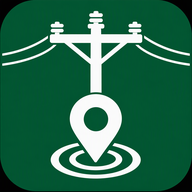
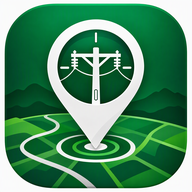
Add files via upload

diff --git a/index.html b/index.html
@@ -7,7 +7,7 @@
     <meta name="theme-color" content="#0f5132">
     <meta name="description" content="Registro offline de puntos de replanteo y coordenadas GPS">
     <link rel="manifest" href="manifest.json">
-    <link rel="apple-touch-icon" href="icon-192.png">
+    <link rel="apple-touch-icon" href="apple-touch-icon.png">
     <title>APP Replanteo</title>
     <link rel="stylesheet" href="https://unpkg.com/leaflet@1.9.4/dist/leaflet.css">
     <style>
@@ -503,7 +503,13 @@
     
         .offline-map { padding:18px; border:1px dashed #94a3b8; border-radius:9px; background:#f8fafc; color:#475569; text-align:center; font-size:13px; }
         .connection-badge { position:fixed; right:10px; bottom:8px; z-index:9999; padding:4px 8px; border-radius:5px; color:#fff; font-size:12px; font-weight:700; background:#198754; }
-        .connection-badge.offline { background:#6c757d; }
+        .connection-badge.offline { background:#b45309; }
+        .gps-quality { margin-top:8px; padding:9px 10px; border-radius:8px; font-size:13px; font-weight:700; background:#e2e8f0; color:#334155; }
+        .gps-quality.searching { background:#dbeafe; color:#1d4ed8; }
+        .gps-quality.good { background:#d1e7dd; color:#0f5132; }
+        .gps-quality.acceptable { background:#fff3cd; color:#664d03; }
+        .gps-quality.low { background:#f8d7da; color:#842029; }
+        .map-mode { margin-top:8px; padding:7px 9px; border-radius:8px; font-size:12px; background:#e8f5ed; color:#0f5132; }
     </style>
 </head>
 
@@ -539,7 +545,7 @@
                         </div>
                         <div class="full gps-preview" id="gpsPreview">
                             <div id="gpsMiniMap"></div>
-                            <div id="gpsText" class="helper"></div>
+                            <div id="gpsText" class="helper"></div><div id="gpsQuality" class="gps-quality">GPS sin activar</div>
                         </div>
                         <div class="full actions"><button type="button" id="stopGps" class="secondary hidden">Detener
                                 GPS</button></div>
@@ -560,7 +566,7 @@
                 <h2>Vista previa satelital</h2>
                 <div class="toolbar"><button id="all" class="secondary">Ver todos los puntos</button><button id="loc"
                         class="primary">Centrar en mi ubicación</button></div>
-                <div id="map"></div>
+                <div id="map"></div><div id="mapMode" class="map-mode">Satélite en línea. Las zonas visualizadas se guardan progresivamente para uso sin conexión.</div>
                 <div class="tramos">
                     <h2>Tramos de red</h2>
                     <p class="helper">Seleccione los apoyos y marque únicamente la red o las redes que llegan al punto
@@ -600,22 +606,22 @@
     <script src="https://cdnjs.cloudflare.com/ajax/libs/proj4js/2.11.0/proj4.js"></script>
     <script>
         (() => {
-            'use strict'; const $ = x => document.getElementById(x), key = 'replanteo_v25'; let points = [], tramos = [], projectName = '', mode = 'XY', edit = -1, watch = null, mapWatch = null, map, markers, lines, mini, miniMarker, accCircle, userMarker, userCircle; const supports = ['Poste', 'Caja subterránea', 'Otro elemento de apoyo']; const options = [...supports, 'Transformador', 'DPS', 'Cortacircuito', 'Cuchilla', 'Caja de derivación', 'Luminaria', 'Red MT', 'Red BT', 'Otro']; proj4.defs('EPSG:3116', '+proj=tmerc +lat_0=4.59620041666667 +lon_0=-74.0775079166667 +k=1 +x_0=1000000 +y_0=1000000 +ellps=GRS80 +towgs84=0,0,0,0,0,0,0 +units=m +no_defs +type=crs');
+            'use strict'; const $ = x => document.getElementById(x), key = 'replanteo_v25'; let points = [], tramos = [], projectName = '', mode = 'XY', edit = -1, watch = null, mapWatch = null, map, markers, lines, mini, miniMarker, accCircle, userMarker, userCircle, lastGpsAccuracy = null, lastGpsTime = null; const supports = ['Poste', 'Caja subterránea', 'Otro elemento de apoyo']; const options = [...supports, 'Transformador', 'DPS', 'Cortacircuito', 'Cuchilla', 'Caja de derivación', 'Luminaria', 'Red MT', 'Red BT', 'Otro']; proj4.defs('EPSG:3116', '+proj=tmerc +lat_0=4.59620041666667 +lon_0=-74.0775079166667 +k=1 +x_0=1000000 +y_0=1000000 +ellps=GRS80 +towgs84=0,0,0,0,0,0,0 +units=m +no_defs +type=crs');
             const esc = v => String(v ?? '').replace(/[&<>"']/g, c => ({ '&': '&amp;', '<': '&lt;', '>': '&gt;', '"': '&quot;', "'": '&#39;' }[c])); const normalizeStatus = s => String(s || '').normalize('NFD').replace(/[\u0300-\u036f]/g, '').toLowerCase(); const color = s => normalizeStatus(s) === 'nuevo' ? '#00c853' : normalizeStatus(s) === 'reposicion' ? '#ff1744' : '#212529'; const cadColor = s => normalizeStatus(s) === 'nuevo' ? 3 : normalizeStatus(s) === 'reposicion' ? 1 : 7; const statusLayer = s => normalizeStatus(s) === 'nuevo' ? 'NUEVO' : normalizeStatus(s) === 'reposicion' ? 'REPOSICION' : 'INTERVENIDO'; function tell(t, e = false, id = 'msg') { const el = $(id); el.textContent = t; el.className = 'status ' + (e ? 'error' : 'ok'); setTimeout(() => el.className = 'status', 3000) } function load() { try { const v = JSON.parse(localStorage.getItem(key) || '{}'); points = v.points || []; tramos = v.tramos || []; projectName = String(v.projectName || '') } catch { points = []; tramos = []; projectName = '' } $('projectName').value = projectName } function persist() { projectName = $('projectName').value.trim(); localStorage.setItem(key, JSON.stringify({ projectName, points, tramos })) } function validProjectName() { const n = $('projectName').value.trim(); if (!n) { tell('Ingrese el nombre obligatorio del proyecto / archivo DXF.', true, 'ptsMsg'); return false } return true } function safeFileName(n) { return n.trim().replace(/[\/:*?"<>|]+/g, '_').replace(/\s+/g, '_').replace(/^\.+|\.+$/g, '').slice(0, 80) || 'replanteo' } function latlng(p) { let a = +p.c1, b = +p.c2; if (!Number.isFinite(a) || !Number.isFinite(b)) return null; let lon, lat; if (p.mode === 'XY') { [lon, lat] = proj4('EPSG:3116', 'EPSG:4326', [a, b]) } else { lon = a; lat = b } return lat >= -90 && lat <= 90 && lon >= -180 && lon <= 180 ? [lat, lon] : null } function xy(p) { if (p.mode === 'XY') return [+p.c1, +p.c2]; return proj4('EPSG:4326', 'EPSG:3116', [+p.c1, +p.c2]) }
             $('projectName').addEventListener('input', () => { projectName = $('projectName').value.trim(); localStorage.setItem(key, JSON.stringify({ projectName, points, tramos })) }); function openView(id) { document.querySelectorAll('.view').forEach(v => v.classList.toggle('active', v.id === id)); document.querySelectorAll('.menu button').forEach(b => b.classList.toggle('active', b.dataset.view === id)); setTimeout(() => { map?.invalidateSize(); mini?.invalidateSize() }, 100); scrollTo({ top: 0, behavior: 'smooth' }) } document.querySelectorAll('.menu button').forEach(b => b.onclick = () => openView(b.dataset.view));
             function setMode(m) { mode = m; $('coordType').value = m; $('l1').textContent = m === 'XY' ? 'X / Este *' : 'Longitud *'; $('l2').textContent = m === 'XY' ? 'Y / Norte *' : 'Latitud *'; $('c1').placeholder = m === 'XY' ? 'Ej.: 1173115.183' : 'Ej.: -72.50780000'; $('c2').placeholder = m === 'XY' ? 'Ej.: 1365010.808' : 'Ej.: 7.89390000' } $('coordType').onchange = e => { setMode(e.target.value); previewManual() };
             function row(type = '', text = '', status = 'Nuevo', first = null) { const isFirst = first ?? !$('elements').children.length, r = document.createElement('div'); r.className = 'element-row'; const list = isFirst ? supports : options, selected = list.includes(type) ? type : list[0]; r.innerHTML = `<div><label>Condición</label><select class="st"><option ${status === 'Nuevo' ? 'selected' : ''}>Nuevo</option><option value="Reposicion" ${status === 'Reposicion' ? 'selected' : ''}>Reposición</option><option ${status === 'Intervenido' ? 'selected' : ''}>Intervenido</option></select></div><div><label>${isFirst ? 'Apoyo obligatorio' : 'Elemento'}</label><select class="tp">${list.map(x => `<option ${x === selected ? 'selected' : ''}>${x}</option>`).join('')}</select></div><div><label>Dato / descripción</label><input class="tx" value="${esc(text)}"></div>${isFirst ? '<button type="button" disabled>Obligatorio</button>' : '<button type="button" class="danger rm">Eliminar</button>'}`; const paint = () => r.querySelector('.tx').style.color = color(r.querySelector('.st').value); r.querySelector('.st').onchange = paint; paint(); r.querySelector('.rm')?.addEventListener('click', () => r.remove()); $('elements').appendChild(r) } $('add').onclick = () => row();
-            function initMini() { if (mini) return; mini = L.map('gpsMiniMap', { attributionControl: false }).setView([7.89, -72.5], 18); L.tileLayer('https://server.arcgisonline.com/ArcGIS/rest/services/World_Imagery/MapServer/tile/{z}/{y}/{x}', { maxZoom: 19 }).addTo(mini) } function miniShow(lat, lon, acc = null) { if(!navigator.onLine){$('gpsPreview').classList.add('active');$('gpsText').textContent=`Longitud: ${lon.toFixed(8)} · Latitud: ${lat.toFixed(8)}${acc !== null ? ' · Precisión: ' + Math.round(acc) + ' m' : ''} · Mapa no disponible sin internet`;return} initMini(); $('gpsPreview').classList.add('active'); const ll = [lat, lon]; if (!miniMarker) miniMarker = L.circleMarker(ll, { radius: 8, color: '#fff', weight: 3, fillColor: '#0d6efd', fillOpacity: 1 }).addTo(mini); else miniMarker.setLatLng(ll); if (acc !== null) { if (!accCircle) accCircle = L.circle(ll, { radius: acc, color: '#0d6efd', fillOpacity: .1 }).addTo(mini); else accCircle.setLatLng(ll).setRadius(acc) } mini.setView(ll, 18); setTimeout(() => mini.invalidateSize(), 50); $('gpsText').textContent = `Longitud: ${lon.toFixed(8)} · Latitud: ${lat.toFixed(8)}${acc !== null ? ' · Precisión: ' + Math.round(acc) + ' m' : ''}` } function previewManual() { if (watch !== null || !$('c1').value || !$('c2').value) return; const ll = latlng({ mode, c1: $('c1').value, c2: $('c2').value }); if (ll) miniShow(ll[0], ll[1]) } [$('c1'), $('c2')].forEach(x => x.oninput = () => setTimeout(previewManual, 250));
-            function lock(v) { [$('c1'), $('c2'), $('coordType')].forEach(x => { x.disabled = v; x.classList.toggle('locked', v) }) } function stopGps() { if (watch !== null) navigator.geolocation.clearWatch(watch); watch = null; lock(false); $('stopGps').classList.add('hidden') } $('stopGps').onclick = stopGps; $('manual').onclick = () => { stopGps(); $('c1').focus() }; $('gps').onclick = () => { if (!window.isSecureContext) { $('secureNotice').classList.remove('hidden'); $('secureNotice').textContent = 'El GPS requiere abrir esta APP mediante HTTPS, por ejemplo GitHub Pages.'; return } if (!navigator.geolocation) return tell('GPS no disponible.', true); setMode('GEO'); lock(true); $('stopGps').classList.remove('hidden'); watch = navigator.geolocation.watchPosition(p => { $('c1').value = p.coords.longitude.toFixed(8); $('c2').value = p.coords.latitude.toFixed(8); miniShow(p.coords.latitude, p.coords.longitude, p.coords.accuracy) }, e => { stopGps(); const mensajes={1:'Permiso de ubicación denegado. Habilite la ubicación para esta APP.',2:'Ubicación no disponible. Active el GPS y vaya a un lugar abierto.',3:'El GPS tardó demasiado. Intente nuevamente al aire libre.'}; tell(mensajes[e.code] || 'No fue posible obtener la ubicación GPS.', true) }, { enableHighAccuracy: true, timeout: 60000, maximumAge: 0 }) };
-            function clear() { stopGps(); $('form').reset(); $('elements').innerHTML = ''; row(); setMode('XY'); edit = -1; $('gpsPreview').classList.remove('active') } $('clear').onclick = clear;
-            $('form').onsubmit = e => { e.preventDefault(); const number = $('numero').value.trim(), c1 = +$('c1').value, c2 = +$('c2').value; if (!number || !Number.isFinite(c1) || !Number.isFinite(c2)) return tell('Complete numeración y coordenadas.', true); const els = [...document.querySelectorAll('.element-row')].map(r => ({ status: r.querySelector('.st').value, type: r.querySelector('.tp').value, text: r.querySelector('.tx').value.trim() })); if (!supports.includes(els[0]?.type)) return tell('El primer elemento debe ser un apoyo.', true); const p = { number, mode, c1, c2, elements: els }; if (edit < 0) points.push(p); else points[edit] = p; persist(); render(); clear(); openView('pts') };
+            function initMini() { if (mini) return; mini = L.map('gpsMiniMap', { attributionControl: false }).setView([7.89, -72.5], 18); L.tileLayer('https://server.arcgisonline.com/ArcGIS/rest/services/World_Imagery/MapServer/tile/{z}/{y}/{x}', { maxZoom: 19 }).addTo(mini) } function miniShow(lat, lon, acc = null) { initMini(); $('gpsPreview').classList.add('active'); const ll = [lat, lon]; if (!miniMarker) miniMarker = L.circleMarker(ll, { radius: 8, color: '#fff', weight: 3, fillColor: '#0d6efd', fillOpacity: 1 }).addTo(mini); else miniMarker.setLatLng(ll); if (acc !== null) { if (!accCircle) accCircle = L.circle(ll, { radius: acc, color: '#0d6efd', fillOpacity: .1 }).addTo(mini); else accCircle.setLatLng(ll).setRadius(acc) } mini.setView(ll, 18); setTimeout(() => mini.invalidateSize(), 50); $('gpsText').textContent = `Longitud: ${lon.toFixed(8)} · Latitud: ${lat.toFixed(8)}${acc !== null ? ' · Precisión: ±' + Math.round(acc) + ' m' : ''}`; if(acc !== null) updateGpsQuality(acc) } function previewManual() { if (watch !== null || !$('c1').value || !$('c2').value) return; const ll = latlng({ mode, c1: $('c1').value, c2: $('c2').value }); if (ll) miniShow(ll[0], ll[1]) } [$('c1'), $('c2')].forEach(x => x.oninput = () => setTimeout(previewManual, 250));
+            function updateGpsQuality(acc){ const q=$('gpsQuality'), a=Math.round(acc); q.className='gps-quality '+(a<15?'good':a<=30?'acceptable':'low'); q.textContent=a<15?`GPS listo · Buena precisión: ±${a} m`:a<=30?`Precisión aceptable: ±${a} m · Puede mejorar al esperar`:`Precisión baja: ±${a} m · Espere al aire libre antes de guardar`; $('gps').textContent=a<15?'GPS listo':`GPS activo · ±${a} m`; } function setGpsSearching(){ const q=$('gpsQuality'); q.className='gps-quality searching'; q.textContent='Buscando señal GPS de alta precisión…'; $('gps').textContent='Buscando GPS…'; } function lock(v) { [$('c1'), $('c2'), $('coordType')].forEach(x => { x.disabled = v; x.classList.toggle('locked', v) }) } function stopGps() { if (watch !== null) navigator.geolocation.clearWatch(watch); watch = null; lock(false); $('stopGps').classList.add('hidden'); $('gps').textContent='Tomar coordenada con GPS' } $('stopGps').onclick = stopGps; $('manual').onclick = () => { stopGps(); $('c1').focus() }; $('gps').onclick = () => { if (!window.isSecureContext) { $('secureNotice').classList.remove('hidden'); $('secureNotice').textContent = 'El GPS requiere abrir esta APP mediante HTTPS, por ejemplo GitHub Pages.'; return } if (!navigator.geolocation) return tell('GPS no disponible.', true); setMode('GEO'); lock(true); setGpsSearching(); lastGpsAccuracy=null; lastGpsTime=null; $('stopGps').classList.remove('hidden'); watch = navigator.geolocation.watchPosition(p => { $('c1').value = p.coords.longitude.toFixed(8); $('c2').value = p.coords.latitude.toFixed(8); lastGpsAccuracy=p.coords.accuracy; lastGpsTime=new Date().toISOString(); miniShow(p.coords.latitude, p.coords.longitude, p.coords.accuracy) }, e => { stopGps(); const mensajes={1:'Permiso de ubicación denegado. Habilite la ubicación para esta APP.',2:'Ubicación no disponible. Active el GPS y vaya a un lugar abierto.',3:'El GPS tardó demasiado. Intente nuevamente al aire libre.'}; tell(mensajes[e.code] || 'No fue posible obtener la ubicación GPS.', true) }, { enableHighAccuracy: true, timeout: 60000, maximumAge: 0 }) };
+            function clear() { stopGps(); $('form').reset(); $('elements').innerHTML = ''; row(); setMode('XY'); edit = -1; lastGpsAccuracy=null; lastGpsTime=null; $('gpsPreview').classList.remove('active'); $('gpsQuality').className='gps-quality'; $('gpsQuality').textContent='GPS sin activar'; $('gps').textContent='Tomar coordenada con GPS' } $('clear').onclick = clear;
+            $('form').onsubmit = e => { e.preventDefault(); const number = $('numero').value.trim(), c1 = +$('c1').value, c2 = +$('c2').value; if (!number || !Number.isFinite(c1) || !Number.isFinite(c2)) return tell('Complete numeración y coordenadas.', true); const els = [...document.querySelectorAll('.element-row')].map(r => ({ status: r.querySelector('.st').value, type: r.querySelector('.tp').value, text: r.querySelector('.tx').value.trim() })); if (!supports.includes(els[0]?.type)) return tell('El primer elemento debe ser un apoyo.', true); const p = { number, mode, c1, c2, accuracy: lastGpsAccuracy, gpsTime: lastGpsTime, elements: els }; if (edit < 0) points.push(p); else points[edit] = p; persist(); render(); clear(); openView('pts') };
             function pairKey(a, b) { return [String(a), String(b)].sort().join('||') } function samePairTramos(start, end) { const k = pairKey(start, end); return tramos.filter(t => pairKey(t.start, t.end) === k) } function connectionLines(start, end) { return samePairTramos(start, end).flatMap(t => t.networks.map((n, networkIndex) => ({ tramo: t, network: n, networkIndex }))) } function lineLaneOffset(t, networkIndex) { const all = connectionLines(t.start, t.end), index = all.findIndex(x => x.tramo === t && x.networkIndex === networkIndex), center = (all.length - 1) / 2; return (center - index) * 2 }
             function initMap() { map = L.map('map').setView([7.89, -72.5], 13); map.createPane('linesPane'); map.getPane('linesPane').classList.add('leaflet-lines-pane'); map.createPane('pointsPane'); map.getPane('pointsPane').classList.add('leaflet-points-pane'); map.createPane('labelsPane'); map.getPane('labelsPane').classList.add('leaflet-labels-pane'); L.tileLayer('https://server.arcgisonline.com/ArcGIS/rest/services/World_Imagery/MapServer/tile/{z}/{y}/{x}', { maxZoom: 19, attribution: 'Tiles © Esri' }).addTo(map); lines = L.layerGroup().addTo(map); markers = L.layerGroup().addTo(map) } function nets(p) { return p?.elements.filter(e => e.type === 'Red MT' || e.type === 'Red BT') || [] } function get(n) { return points.find(p => p.number === n) }
-            function renderMap(fit = false) { if(!navigator.onLine||!markers)return; markers.clearLayers(); const bounds = []; points.forEach(p => { const ll = latlng(p); if (!ll) return; L.circleMarker(ll, { pane: 'pointsPane', radius: 9, color: '#fff', weight: 3, fillColor: color(p.elements[0]?.status), fillOpacity: 1, bubblingMouseEvents: false }).addTo(markers).bindTooltip(esc(p.number), { permanent: true, direction: 'right', offset: [10, 0], className: 'point-number-label', pane: 'labelsPane' }).bindPopup(`<b>Punto ${esc(p.number)}</b><br>${p.elements.map(e => `<b>${esc(e.type)}:</b> ${esc(e.text)} (${esc(e.status)})`).join('<br>')}`); bounds.push(ll) }); renderLines(); selectors(); if (fit && bounds.length) map.fitBounds(bounds, { padding: [25, 25], maxZoom: 18 }) } function renderLines() { lines.clearLayers(); tramos.forEach(t => { const a = latlng(get(t.start)), b = latlng(get(t.end)); if (!a || !b) return; const meanLat = (a[0] + b[0]) / 2 * Math.PI / 180, mLat = 111320, mLon = 111320 * Math.cos(meanLat), dx = (b[1] - a[1]) * mLon, dy = (b[0] - a[0]) * mLat, len = Math.hypot(dx, dy) || 1, ux = dx / len, uy = dy / len, nx = -uy, ny = ux, fan = Math.min(5, Math.max(2, len * .08)); t.networks.forEach((n, networkIndex) => { const off = lineLaneOffset(t, networkIndex), p1 = [a[0], a[1]], p2 = [a[0] + (uy * fan + ny * off) / mLat, a[1] + (ux * fan + nx * off) / mLon], p3 = [b[0] - (uy * fan - ny * off) / mLat, b[1] - (ux * fan - nx * off) / mLon], p4 = [b[0], b[1]]; L.polyline([p1, p2, p3, p4], { pane: 'linesPane', interactive: false, color: color(n.status), weight: 4, opacity: 1, dashArray: n.type === 'Red BT' ? '1 7' : null, lineCap: 'round', lineJoin: 'round' }).addTo(lines) }) }); tramoList() }
+            function renderMap(fit = false) { if(!markers)return; markers.clearLayers(); const bounds = []; points.forEach(p => { const ll = latlng(p); if (!ll) return; L.circleMarker(ll, { pane: 'pointsPane', radius: 9, color: '#fff', weight: 3, fillColor: color(p.elements[0]?.status), fillOpacity: 1, bubblingMouseEvents: false }).addTo(markers).bindTooltip(esc(p.number), { permanent: true, direction: 'right', offset: [10, 0], className: 'point-number-label', pane: 'labelsPane' }).bindPopup(`<b>Punto ${esc(p.number)}</b><br>${p.elements.map(e => `<b>${esc(e.type)}:</b> ${esc(e.text)} (${esc(e.status)})`).join('<br>')}`); bounds.push(ll) }); renderLines(); selectors(); if (fit && bounds.length) map.fitBounds(bounds, { padding: [25, 25], maxZoom: 18 }) } function renderLines() { lines.clearLayers(); tramos.forEach(t => { const a = latlng(get(t.start)), b = latlng(get(t.end)); if (!a || !b) return; const meanLat = (a[0] + b[0]) / 2 * Math.PI / 180, mLat = 111320, mLon = 111320 * Math.cos(meanLat), dx = (b[1] - a[1]) * mLon, dy = (b[0] - a[0]) * mLat, len = Math.hypot(dx, dy) || 1, ux = dx / len, uy = dy / len, nx = -uy, ny = ux, fan = Math.min(5, Math.max(2, len * .08)); t.networks.forEach((n, networkIndex) => { const off = lineLaneOffset(t, networkIndex), p1 = [a[0], a[1]], p2 = [a[0] + (uy * fan + ny * off) / mLat, a[1] + (ux * fan + nx * off) / mLon], p3 = [b[0] - (uy * fan - ny * off) / mLat, b[1] - (ux * fan - nx * off) / mLon], p4 = [b[0], b[1]]; L.polyline([p1, p2, p3, p4], { pane: 'linesPane', interactive: false, color: color(n.status), weight: 4, opacity: 1, dashArray: n.type === 'Red BT' ? '1 7' : null, lineCap: 'round', lineJoin: 'round' }).addTo(lines) }) }); tramoList() }
             function selectors() { const previousStart = $('start').value, previousEnd = $('end').value, all = '<option value="">Seleccione...</option>' + points.map(p => `<option value="${esc(p.number)}">${esc(p.number)}</option>`).join(''); $('start').innerHTML = all; if (get(previousStart)) $('start').value = previousStart; refreshEndOptions(previousEnd); showNetworks() } function refreshEndOptions(preferred = '') { const start = $('start').value; const opts = '<option value="">Seleccione...</option>' + points.filter(p => p.number !== start).map(p => `<option value="${esc(p.number)}">${esc(p.number)}</option>`).join(''); $('end').innerHTML = opts; if (preferred && preferred !== start && get(preferred)) $('end').value = preferred } function showNetworks() { const list = nets(get($('start').value)); if (!list.length) { $('networkInfo').innerHTML = '<b>El apoyo inicial no tiene Red MT o BT.</b>'; return } $('networkInfo').innerHTML = '<div class="helper"><b>Seleccione la red que llega al punto final:</b></div>' + list.map((n, i) => `<label class="network-choice"><span class="network-main"><input type="checkbox" class="netChoice" value="${i}"><span class="swatch" style="background:${color(n.status)}"></span><span><b>${n.type}</b>${n.text ? ' · ' + esc(n.text) : ''}</span></span><span>${n.status}</span></label>`).join('') } $('start').onchange = () => { refreshEndOptions(); showNetworks() };
             $('saveTramo').onclick = () => { const start = $('start').value, end = $('end').value; if (!start || !end || start === end) return tell('Seleccione dos puntos diferentes.', true); const available = nets(get(start)), idx = [...document.querySelectorAll('.netChoice:checked')].map(x => +x.value), selected = idx.map(i => available[i]).filter(Boolean); if (!selected.length) return tell('Seleccione al menos una red MT o BT.', true); tramos.push({ start, end, networks: selected.map(n => ({ ...n })) }); persist(); renderLines(); tell('Tramo guardado.') }; function tramoList() { $('tramoList').innerHTML = tramos.length ? tramos.map((t, i) => `<div class="tramo-row"><div><b>${esc(t.start)} → ${esc(t.end)}</b><br><small>${t.networks.map(n => n.type + ' (' + n.status + ')').join(' · ')}</small></div><button class="danger delT" data-i="${i}">Eliminar</button></div>`).join('') : '<div class="helper">No hay tramos.</div>'; document.querySelectorAll('.delT').forEach(b => b.onclick = () => { tramos.splice(+b.dataset.i, 1); persist(); renderLines() }) }
             $('all').onclick = () => renderMap(true); $('loc').onclick = () => { if (!window.isSecureContext) return tell('La ubicación requiere HTTPS.', true); if (mapWatch !== null) { navigator.geolocation.clearWatch(mapWatch); mapWatch = null; $('loc').textContent = 'Centrar en mi ubicación'; return } $('loc').textContent = 'Detener ubicación en tiempo real'; mapWatch = navigator.geolocation.watchPosition(p => { const ll = [p.coords.latitude, p.coords.longitude]; if (!userMarker) userMarker = L.circleMarker(ll, { pane: 'pointsPane', radius: 9, color: '#fff', fillColor: '#0d6efd', fillOpacity: 1 }).addTo(map); else userMarker.setLatLng(ll); if (!userCircle) userCircle = L.circle(ll, { radius: p.coords.accuracy, color: '#0d6efd', fillOpacity: .1 }).addTo(map); else userCircle.setLatLng(ll).setRadius(p.coords.accuracy); map.setView(ll, 18) }, () => tell('No fue posible obtener la ubicación.', true), { enableHighAccuracy: true }) };
-            function render() { $('count').textContent = String(points.length); $('countInicio').textContent = String(points.length); $('pointList').innerHTML = points.length ? points.map((p, i) => `<div class="point"><div class="point-head"><b>${esc(p.number)}</b><span>${p.mode}</span></div><div class="point-row">${p.elements.map(e => `• <b>${esc(e.type)}:</b> <span style="color:${color(e.status)}">${esc(e.text)}</span> <b>(${esc(e.status)})</b>`).join('<br>')}</div><div class="actions"><button class="secondary edit" data-i="${i}">Editar</button><button class="danger del" data-i="${i}">Eliminar</button></div></div>`).join('') : '<div class="helper">No hay puntos.</div>'; document.querySelectorAll('.edit').forEach(b => b.onclick = () => { const p = points[+b.dataset.i]; edit = +b.dataset.i; $('numero').value = p.number; setMode(p.mode); $('c1').value = p.c1; $('c2').value = p.c2; $('elements').innerHTML = ''; p.elements.forEach((e, j) => row(e.type, e.text, e.status, j === 0)); openView('reg') }); document.querySelectorAll('.del').forEach(b => b.onclick = () => { const n = points[+b.dataset.i].number; points.splice(+b.dataset.i, 1); tramos = tramos.filter(t => t.start !== n && t.end !== n); persist(); render() }); renderMap() }
+            function render() { $('count').textContent = String(points.length); $('countInicio').textContent = String(points.length); $('pointList').innerHTML = points.length ? points.map((p, i) => `<div class="point"><div class="point-head"><b>${esc(p.number)}</b><span>${p.mode}${Number.isFinite(+p.accuracy)?' · GPS ±'+Math.round(+p.accuracy)+' m':''}</span></div><div class="point-row">${p.elements.map(e => `• <b>${esc(e.type)}:</b> <span style="color:${color(e.status)}">${esc(e.text)}</span> <b>(${esc(e.status)})</b>`).join('<br>')}</div><div class="actions"><button class="secondary edit" data-i="${i}">Editar</button><button class="danger del" data-i="${i}">Eliminar</button></div></div>`).join('') : '<div class="helper">No hay puntos.</div>'; document.querySelectorAll('.edit').forEach(b => b.onclick = () => { const p = points[+b.dataset.i]; edit = +b.dataset.i; $('numero').value = p.number; setMode(p.mode); $('c1').value = p.c1; $('c2').value = p.c2; lastGpsAccuracy=Number.isFinite(+p.accuracy)?+p.accuracy:null; lastGpsTime=p.gpsTime||null; if(lastGpsAccuracy!==null) updateGpsQuality(lastGpsAccuracy); $('elements').innerHTML = ''; p.elements.forEach((e, j) => row(e.type, e.text, e.status, j === 0)); openView('reg') }); document.querySelectorAll('.del').forEach(b => b.onclick = () => { const n = points[+b.dataset.i].number; points.splice(+b.dataset.i, 1); tramos = tramos.filter(t => t.start !== n && t.end !== n); persist(); render() }); renderMap() }
             function download(c, n, t) { const a = document.createElement('a'), u = URL.createObjectURL(new Blob([c], { type: t })); a.href = u; a.download = n; a.click(); setTimeout(() => URL.revokeObjectURL(u), 500) } $('dxf').onclick = () => { if (!validProjectName()) return; const exportName = safeFileName($('projectName').value); let d = '0\nSECTION\n2\nHEADER\n0\nENDSEC\n0\nSECTION\n2\nTABLES\n0\nTABLE\n2\nLTYPE\n70\n2\n0\nLTYPE\n2\nCONTINUOUS\n70\n0\n3\nSolid line\n72\n65\n73\n0\n40\n0.0\n0\nLTYPE\n2\nDASHED\n70\n0\n3\nDashed line\n72\n65\n73\n2\n40\n4.0\n49\n1.0\n74\n0\n49\n-3.0\n74\n0\n0\nENDTAB\n0\nTABLE\n2\nLAYER\n70\n4\n';[['PUNTOS', 7], ['NUEVO', 3], ['REPOSICION', 1], ['INTERVENIDO', 7]].forEach(x => { d += `0\nLAYER\n2\n${x[0]}\n70\n0\n62\n${x[1]}\n6\nCONTINUOUS\n` }); d += '0\nENDTAB\n0\nENDSEC\n0\nSECTION\n2\nENTITIES\n'; points.forEach(p => { const [x, y] = xy(p), r = 1.2, st = p.elements[0]?.status || 'Intervenido', layer = statusLayer(st), col = cadColor(st); const r0 = r / 2; for (let k = 0; k < 24; k++) { let a = 2 * Math.PI * k / 24, b = 2 * Math.PI * (k + 1) / 24; d += `0\nSOLID\n8\n0\n62\n7\n10\n${x}\n20\n${y}\n11\n${x + r0 * Math.cos(a)}\n21\n${y + r0 * Math.sin(a)}\n12\n${x + r0 * Math.cos(b)}\n22\n${y + r0 * Math.sin(b)}\n13\n${x + r0 * Math.cos(b)}\n23\n${y + r0 * Math.sin(b)}\n` } d += `0\nCIRCLE\n8\n0\n62\n7\n10\n${x}\n20\n${y}\n40\n${r0}\n`; for (let k = 0; k < 24; k++) { let a = 2 * Math.PI * k / 24, b = 2 * Math.PI * (k + 1) / 24; d += `0\nSOLID\n8\n${layer}\n62\n${col}\n10\n${x}\n20\n${y}\n11\n${x + r * Math.cos(a)}\n21\n${y + r * Math.sin(a)}\n12\n${x + r * Math.cos(b)}\n22\n${y + r * Math.sin(b)}\n13\n${x + r * Math.cos(b)}\n23\n${y + r * Math.sin(b)}\n` } const tx = x + r + .8; d += `0\nTEXT\n8\n${layer}\n62\n${col}\n10\n${tx}\n20\n${y}\n40\n1.5\n1\n${p.number}\n`; p.elements.forEach((e, i) => { const textLayer = statusLayer(e.status), textColor = cadColor(e.status); d += `0\nTEXT\n8\n${textLayer}\n62\n${textColor}\n10\n${tx}\n20\n${y - 2 - i * 1.5}\n40\n1\n1\n${e.type}: ${e.text} (${e.status})\n` }) }); tramos.forEach(t => { const A = xy(get(t.start)), B = xy(get(t.end)), dx = B[0] - A[0], dy = B[1] - A[1], l = Math.hypot(dx, dy) || 1, ux = dx / l, uy = dy / l, nx = -uy, ny = ux, fan = Math.min(7, Math.max(2.5, l * .12)); t.networks.forEach((n, networkIndex) => { const o = lineLaneOffset(t, networkIndex), la = statusLayer(n.status), ac = cadColor(n.status), lt = n.type === 'Red BT' ? 'DASHED' : 'CONTINUOUS', lts = n.type === 'Red BT' ? 0.25 : 1, x2 = A[0] + ux * fan + nx * o, y2 = A[1] + uy * fan + ny * o, x3 = B[0] - ux * fan + nx * o, y3 = B[1] - uy * fan + ny * o; d += `0\nLWPOLYLINE\n8\n${la}\n62\n${ac}\n6\n${lt}\n48\n${lts}\n370\n30\n90\n4\n70\n0\n10\n${A[0]}\n20\n${A[1]}\n10\n${x2}\n20\n${y2}\n10\n${x3}\n20\n${y3}\n10\n${B[0]}\n20\n${B[1]}\n` }) }); d += '0\nENDSEC\n0\nEOF\n'; download(d, exportName + '.dxf', 'application/dxf') }; 
             $('csv').onclick = () => {
                 if (!validProjectName()) return;
@@ -623,7 +629,7 @@
                 const exportName = safeFileName($('projectName').value);
 
                 const encabezado =
-                    'Numero;X;Y;Orden_item;Estado;Tipo_elemento;Descripcion\r\n';
+                    'Numero;X;Y;Precision_GPS_m;Fecha_hora_GPS;Orden_item;Estado;Tipo_elemento;Descripcion\r\n';
 
                 const filas = [];
 
@@ -632,7 +638,7 @@
 
                     const numero = String(p.number || '').replace(/;/g, ',');
                     const coordenadaX = Number(q[0]).toFixed(3);
-                    const coordenadaY = Number(q[1]).toFixed(3);
+                    const coordenadaY = Number(q[1]).toFixed(3); const precisionGps=Number.isFinite(+p.accuracy)?Number(p.accuracy).toFixed(1):''; const fechaGps=String(p.gpsTime||'');
 
                     if (Array.isArray(p.elements) && p.elements.length > 0) {
                         p.elements.forEach((elemento, indice) => {
@@ -643,12 +649,12 @@
                                 .replace(/\r?\n/g, ' ');
 
                             filas.push(
-                                `${numero};${coordenadaX};${coordenadaY};${indice + 1};${estado};${tipo};${descripcion}`
+                                `${numero};${coordenadaX};${coordenadaY};${precisionGps};${fechaGps};${indice + 1};${estado};${tipo};${descripcion}`
                             );
                         });
                     } else {
                         filas.push(
-                            `${numero};${coordenadaX};${coordenadaY};;;;`
+                            `${numero};${coordenadaX};${coordenadaY};${precisionGps};${fechaGps};;;;`
                         );
                     }
                 });
@@ -665,10 +671,10 @@
             
             
             $('resetAll').onclick = () => { if (confirm('¿Eliminar el nombre, todos los puntos y todos los tramos guardados?')) { points = []; tramos = []; projectName = ''; $('projectName').value = ''; localStorage.removeItem(key); clear(); render(); tell('Nombre, puntos y tramos eliminados.') } };
-            function updateConnection(){const online=navigator.onLine,b=$('connectionBadge');b.textContent=online?'En línea':'Sin conexión · GPS disponible';b.classList.toggle('offline',!online);document.querySelectorAll('#map,#gpsMiniMap').forEach(el=>el.style.display=online?'block':'none');if(!online){$('gpsPreview').classList.add('active');$('gpsText').innerHTML='<div class="offline-map">Sin internet: el mapa no se mostrará. La captura de coordenadas GPS continúa disponible.</div>'}} window.addEventListener('online',()=>{updateConnection();location.reload()});window.addEventListener('offline',updateConnection); if (!window.isSecureContext) { $('secureNotice').classList.remove('hidden'); $('secureNotice').textContent = 'Para usar GPS en el celular, publique y abra esta APP mediante HTTPS.' } load(); row(); initMap(); render(); updateConnection();
+            function updateConnection(){const online=navigator.onLine,b=$('connectionBadge');b.textContent=online?'En línea · Satélite':'Sin conexión · Satélite guardado';b.classList.toggle('offline',!online);$('mapMode').textContent=online?'Satélite en línea. Las zonas visualizadas se guardan progresivamente para uso sin conexión.':'Modo offline: se mostrarán las imágenes satelitales que ya hayan sido cargadas y guardadas en este dispositivo.'; if(map)setTimeout(()=>map.invalidateSize(),100); if(mini)setTimeout(()=>mini.invalidateSize(),100)} window.addEventListener('online',updateConnection);window.addEventListener('offline',updateConnection); if (!window.isSecureContext) { $('secureNotice').classList.remove('hidden'); $('secureNotice').textContent = 'Para usar GPS en el celular, publique y abra esta APP mediante HTTPS.' } load(); row(); initMap(); render(); updateConnection();
         })();
     </script>
-    <div class="version-app">V 1.3</div>
+    <div class="version-app">V 1.4</div>
     <div id="connectionBadge" class="connection-badge">En línea</div>
     <script>
       if ('serviceWorker' in navigator) {

diff --git a/sw.js b/sw.js
@@ -1,11 +1,6 @@
-const CACHE='replanteo-pwa-v1.3';
-const APP_SHELL=['./','./index.html','./manifest.json','./icon-192.png','./icon-512.png'];
+const CACHE='replanteo-pwa-v1.4';
+const TILE_CACHE='replanteo-satelite-v1';
+const APP_SHELL=['./','./index.html','./manifest.json','./icon-192.png','./icon-512.png','./icon-maskable-192.png','./icon-maskable-512.png','./apple-touch-icon.png'];
 self.addEventListener('install',event=>{event.waitUntil(caches.open(CACHE).then(c=>c.addAll(APP_SHELL)).then(()=>self.skipWaiting()))});
-self.addEventListener('activate',event=>{event.waitUntil(caches.keys().then(keys=>Promise.all(keys.filter(k=>k!==CACHE).map(k=>caches.delete(k)))).then(()=>self.clients.claim()))});
-self.addEventListener('fetch',event=>{
-  if(event.request.method!=='GET')return;
-  const url=new URL(event.request.url);
-  const isMap=url.hostname.includes('arcgisonline.com');
-  if(isMap){event.respondWith(fetch(event.request).catch(()=>new Response('',{status:503})));return;}
-  event.respondWith(caches.match(event.request).then(cached=>cached||fetch(event.request).then(response=>{const copy=response.clone();caches.open(CACHE).then(c=>c.put(event.request,copy));return response}).catch(()=>event.request.mode==='navigate'?caches.match('./index.html'):new Response('',{status:503}))));
-});
+self.addEventListener('activate',event=>{event.waitUntil(caches.keys().then(keys=>Promise.all(keys.filter(k=>![CACHE,TILE_CACHE].includes(k)).map(k=>caches.delete(k)))).then(()=>self.clients.claim()))});
+self.addEventListener('fetch',event=>{if(event.request.method!=='GET')return;const url=new URL(event.request.url);const isSatellite=url.hostname.includes('arcgisonline.com');if(isSatellite){event.respondWith(caches.open(TILE_CACHE).then(async cache=>{const cached=await cache.match(event.request);if(cached)return cached;try{const response=await fetch(event.request);if(response&&response.ok)cache.put(event.request,response.clone());return response}catch(e){return new Response('',{status:503})}}));return;}event.respondWith(caches.match(event.request).then(cached=>cached||fetch(event.request).then(response=>{if(response&&response.ok){const copy=response.clone();caches.open(CACHE).then(c=>c.put(event.request,copy))}return response}).catch(()=>event.request.mode==='navigate'?caches.match('./index.html'):new Response('',{status:503}))));});
